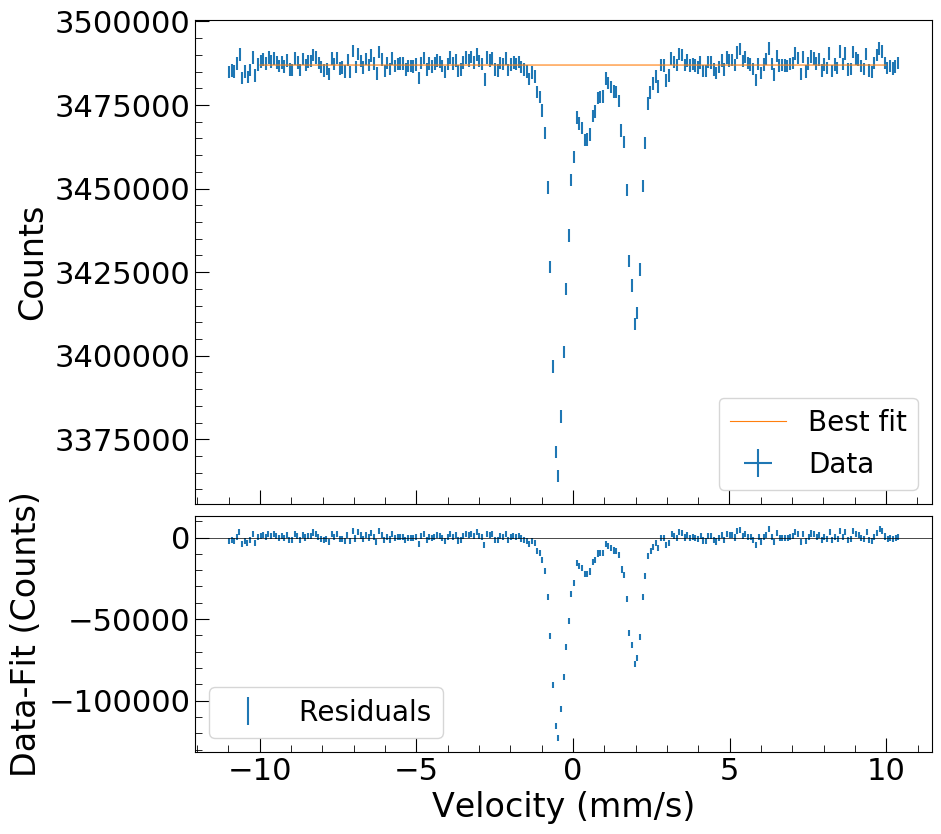
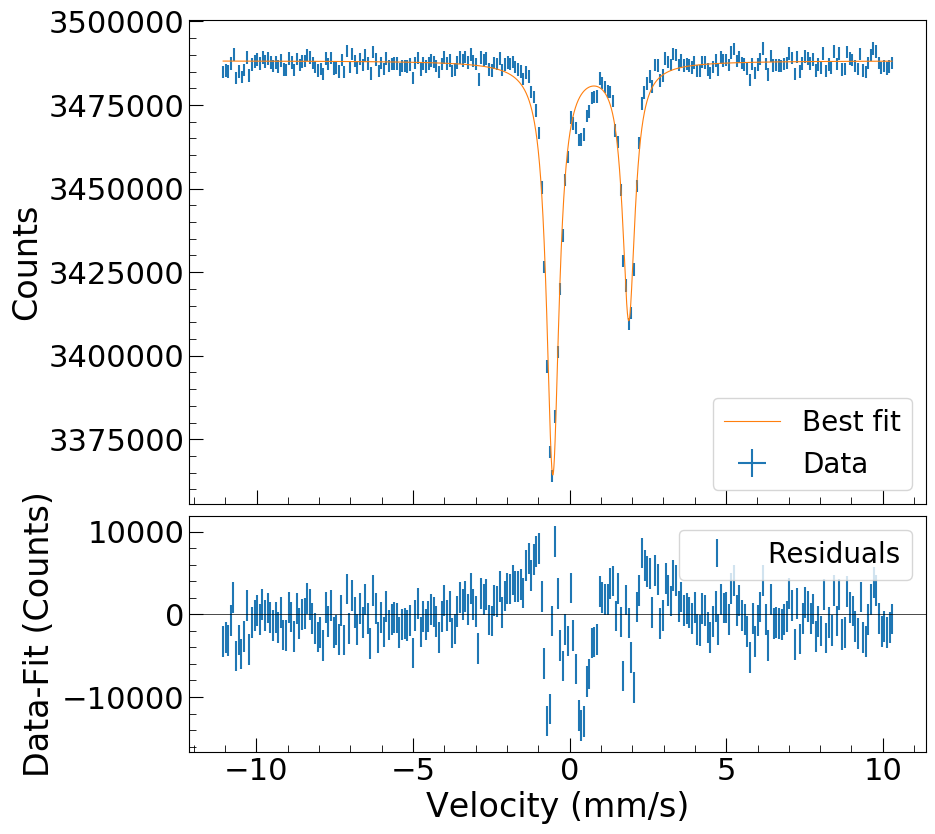
fit mica

diff --git a/Lab2_Mossbauer/plot_YFeO3_18.py b/Lab2_Mossbauer/plot_YFeO3_18.py
@@ -7,7 +7,7 @@ import matplotlib.gridspec as gridspec
 from matplotlib.ticker import (MultipleLocator, FormatStrFormatter,
                                AutoMinorLocator)
 
-data = np.loadtxt('True_folded_data_micaplatestraight0214.txt', delimiter=',')
+data = np.loadtxt('True_folded_data_YFeO3_room_temperature18C.txt', delimiter=',')
 
 x = fit(data[:,0][:-1])
 y = data[:,1][:-1]
@@ -20,21 +20,21 @@ err_x = np.sqrt((6e-5*x)**2 +0.009**2)
 # exit(1)
 
 # flat line background level
-flat = np.max(y)
+flat = np.mean(y[:10])
 
-p0=[0.1, flat, 14.39999999997, 28.80000000011, 0.5, 10000]
+p0=[0.2, flat, 14.39999999997, 0.18088/1.752, 33, 28.80000000011, 80000, 70000, 35000]
 
-func = MossbauerModel(Zeeman=False, quad=False, quad_angle=True).mod
+func = MossbauerModel(Zeeman=True, quad=True, quad_angle=False).mod
 
 plt.plot(x,y, '.')
 x_test = np.linspace(-10,10,10000000)
-y_test = func(x_test, p0[0], p0[1], p0[2], p0[3], p0[4], p0[5])
+y_test = func(x_test, p0[0], p0[1], p0[2], p0[3], p0[4], p0[5], p0[6], p0[7], p0[8])
 plt.plot(x_test,y_test)
 plt.show()
 
-#assert(1==0)
+assert(1==0)
 
-p,pcov = curve_fit(func,x,y, p0=p0, bounds=([0, flat-5000, 14.39999999996, 28.800000000105, -np.pi/10, 0],[0.3, flat+5000, 14.39999999998, 28.80000000012, np.pi/4, 30000]), sigma = yerr)
+p,pcov = curve_fit(func,x,y, p0=p0, bounds=([0, flat-5000, 14.39999999996, 28.800000000105, 0, 0],[0.3, flat+5000, 14.39999999998, 28.80000000012, np.pi, 50000]), sigma = yerr)
 for i in range(len(p)):
 	print(p[i], np.sqrt(pcov[i,i]))
 x_arr = np.linspace(x[0],x[-1],10000000)
@@ -79,5 +79,5 @@ ax2.yaxis.set_minor_locator(AutoMinorLocator())
 ax2.set_xlabel('Velocity (mm/s)', size = 24)
 ax2.set_ylabel('Data-Fit (Counts)', size = 24)
 ax2.legend( prop={'size': 20})
-# plt.show()
-plt.savefig('Fit_micaPowder_Straight.png',bbox_inches='tight')
+plt.show()
+#plt.savefig('Fit_YfeO3_18.png',bbox_inches='tight')

diff --git a/Lab2_Mossbauer/plot_micaTilted.py b/Lab2_Mossbauer/plot_micaTilted.py
@@ -7,10 +7,10 @@ import matplotlib.gridspec as gridspec
 from matplotlib.ticker import (MultipleLocator, FormatStrFormatter,
                                AutoMinorLocator)
 
-data = np.loadtxt('folded_data_micaplatetilted0217.txt', delimiter=',')
+data = np.loadtxt('True_folded_data_micaplatetilted0217.txt', delimiter=',')
 
-x = fit(data[:,0][1:])
-y = np.flip(data[:,1][1:])
+x = fit(data[:,0][:-1])
+y = data[:,1][:-1]
 yerr = np.sqrt(y)
 err_x = np.sqrt((6e-5*x)**2 +0.009**2)
 
@@ -20,16 +20,24 @@ err_x = np.sqrt((6e-5*x)**2 +0.009**2)
 # exit(1)
 
 # flat line background level
-flat = np.max(y)
+flat = np.mean(y[:10])
 
-p0=[1, flat, 8000, -100000, 2.6*np.pi/9, 125000]
+p0=[0.2, flat, 14.39999999997, 28.80000000011, 0.85, 40000]
 
 func = MossbauerModel(Zeeman=False, quad=False, quad_angle=True).mod
 
-p,pcov = curve_fit(func,x,y, p0=p0, bounds=([0, flat-5000,1000,-200000, 2.6*np.pi/9 - 0.01, 0],[2, flat+5000, 1.44000000001e4, 200000, np.pi/2, 150000]), sigma = yerr)
+plt.plot(x,y, '.')
+x_test = np.linspace(-10,10,10000000)
+y_test = func(x_test, p0[0], p0[1], p0[2], p0[3], p0[4], p0[5])
+plt.plot(x_test,y_test)
+plt.show()
+
+#assert(1==0)
+
+p,pcov = curve_fit(func,x,y, p0=p0, bounds=([0, flat-5000, 14.39999999996, 28.800000000105, 0, 0],[0.3, flat+5000, 14.39999999998, 28.80000000012, np.pi, 50000]), sigma = yerr)
 for i in range(len(p)):
 	print(p[i], np.sqrt(pcov[i,i]))
-x_arr = np.linspace(-10,10,10000000)
+x_arr = np.linspace(x[0],x[-1],10000000)
 
 # plt.plot(x_arr,func(x_arr,0.1,np.max(y), 1.44e+04,(0.18088)/(-1.752), 33000, 1e2, 50, 20))
 # plt.plot(x_arr,func(x_arr,p[0],p[1],p[2],p[3],p[4],p[5],p[6],p[7]))

diff --git a/Lab2_Mossbauer/plot_micaPowder.py b/Lab2_Mossbauer/plot_micaPowder.py
@@ -7,10 +7,10 @@ import matplotlib.gridspec as gridspec
 from matplotlib.ticker import (MultipleLocator, FormatStrFormatter,
                                AutoMinorLocator)
 
-data = np.loadtxt('folded_data_mica0212.txt', delimiter=',')
+data = np.loadtxt('True_folded_data_mica0212.txt', delimiter=',')
 
-x = fit(data[:,0][1:])
-y = np.flip(data[:,1][1:])
+x = fit(data[:,0][:-1])
+y = data[:,1][:-1]
 yerr = np.sqrt(y)
 err_x = np.sqrt((6e-5*x)**2 +0.009**2)
 
@@ -22,14 +22,22 @@ err_x = np.sqrt((6e-5*x)**2 +0.009**2)
 # flat line background level
 flat = np.max(y)
 
-p0=[0.15, flat, 30000, -100000, 0, 12500]
+p0=[0.1, flat, 14.39999999997, 28.80000000011, 0.5, 10000]
 
 func = MossbauerModel(Zeeman=False, quad=False, quad_angle=True).mod
 
-p,pcov = curve_fit(func,x,y, p0=p0, bounds=([0, flat-5000,1000,-200000, -np.pi/4, 0],[0.4, flat+5000, 35000, 200000, np.pi/2, 15000]), sigma = yerr)
+plt.plot(x,y, '.')
+x_test = np.linspace(-10,10,10000000)
+y_test = func(x_test, p0[0], p0[1], p0[2], p0[3], p0[4], p0[5])
+plt.plot(x_test,y_test)
+plt.show()
+
+#assert(1==0)
+
+p,pcov = curve_fit(func,x,y, p0=p0, bounds=([0, flat-5000, 14.39999999996, 28.800000000105, -np.pi/4, 0],[0.4, flat+5000, 14.39999999998, 28.80000000012, np.pi/2, 15000]), sigma = yerr)
 for i in range(len(p)):
 	print(p[i], np.sqrt(pcov[i,i]))
-x_arr = np.linspace(-10,10,10000000)
+x_arr = np.linspace(x[0],x[-1],10000000)
 
 # plt.plot(x_arr,func(x_arr,0.1,np.max(y), 1.44e+04,(0.18088)/(-1.752), 33000, 1e2, 50, 20))
 # plt.plot(x_arr,func(x_arr,p[0],p[1],p[2],p[3],p[4],p[5],p[6],p[7]))

diff --git a/Lab2_Mossbauer/MossbauerFit.py b/Lab2_Mossbauer/MossbauerFit.py
@@ -176,12 +176,12 @@ class MossbauerModel:
 			def model(x,sf,c,Ea,g2,B,QV,A1,A2,A3):
 				shift = self.isomer_shift(Ea)
 				quadshift = self.quadrupole_split(QV)
-				print(shift, quadshift)
+				#print(shift, quadshift)
 				mod = 0
 				zeeman = (g2*-3/2 - g*-1/2)*ub*B+self.Es
 
 				zeeman = self.convert_E_to_v(zeeman)
-				print(zeeman)
+				#print(zeeman)
 				mod += Lorentzian(x, (-shift+zeeman+quadshift), sf, A1)
 				zeeman = (g2*-1/2 - g*-1/2)*ub*B+self.Es
 				zeeman = self.convert_E_to_v(zeeman)
